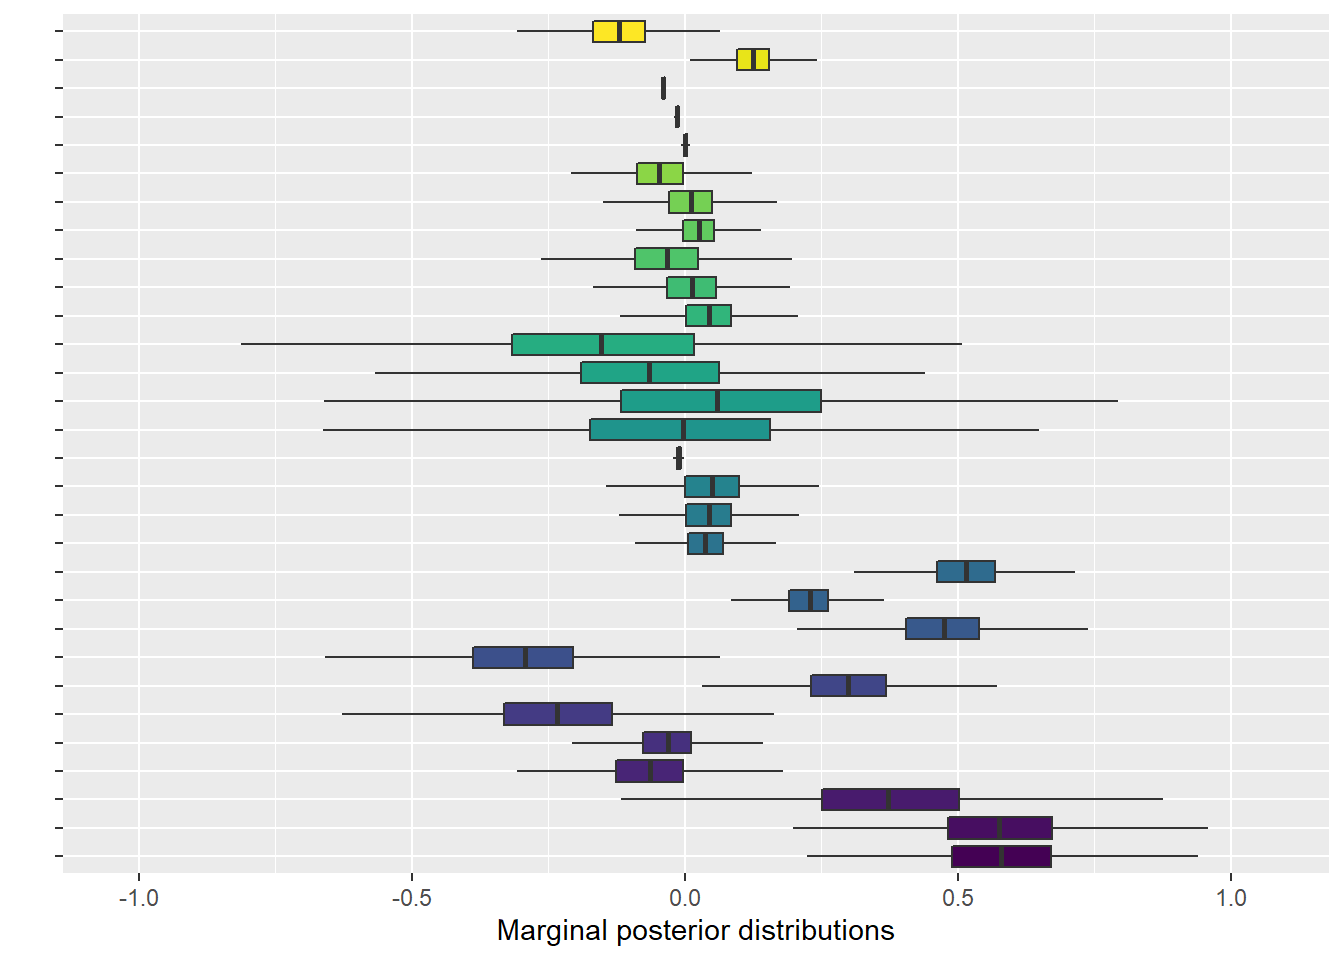
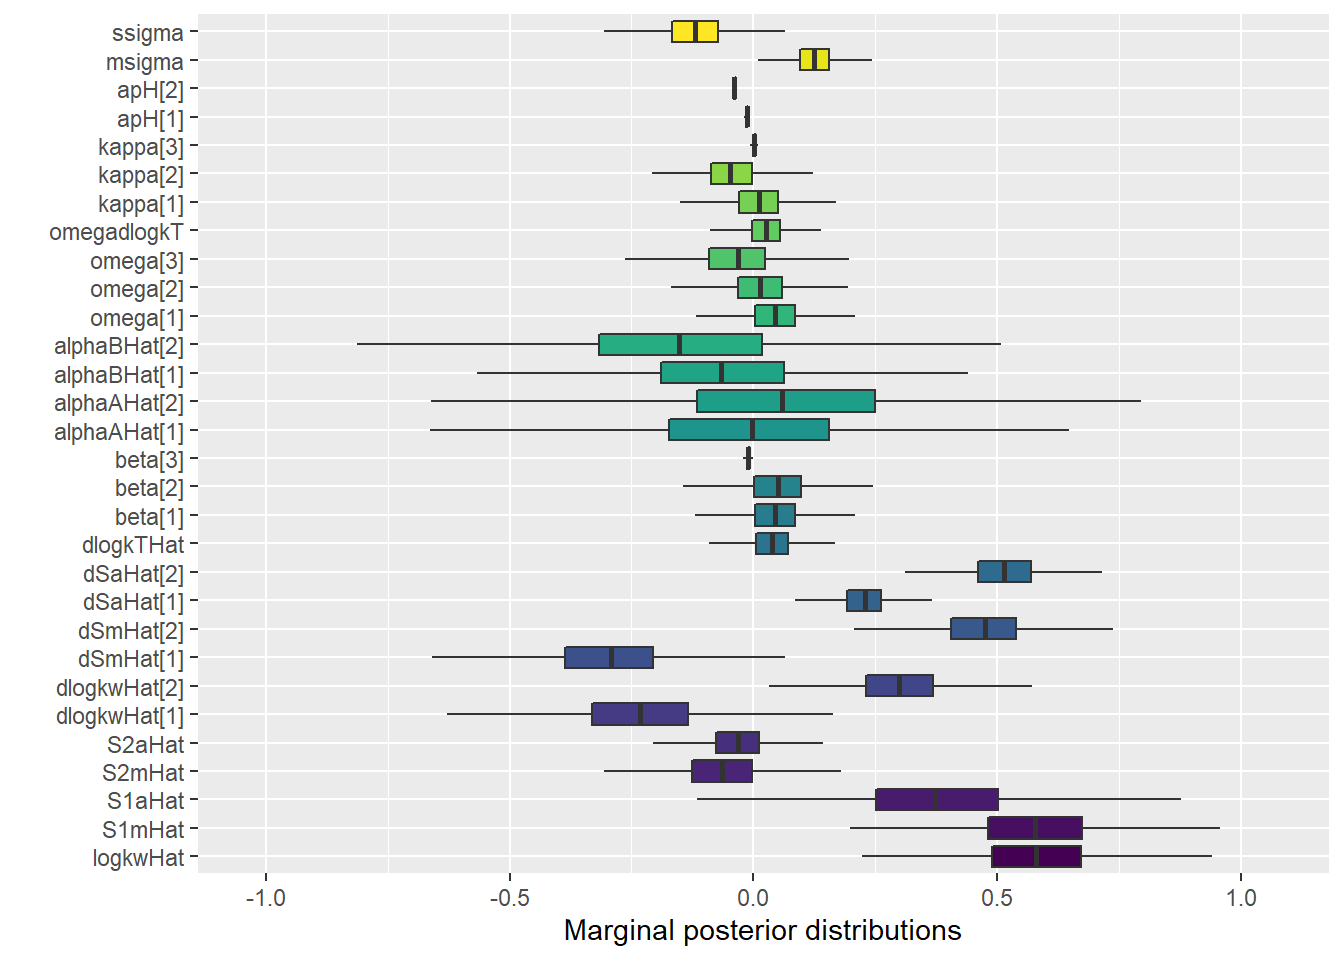
minor chart fixes

diff --git a/docs/Model_2_c.html b/docs/Model_2_c.html
@@ -20,69 +20,6 @@ ul.task-list li input[type="checkbox"] {
   margin: 0 0.8em 0.2em -1.6em;
   vertical-align: middle;
 }
-pre > code.sourceCode { white-space: pre; position: relative; }
-pre > code.sourceCode > span { display: inline-block; line-height: 1.25; }
-pre > code.sourceCode > span:empty { height: 1.2em; }
-.sourceCode { overflow: visible; }
-code.sourceCode > span { color: inherit; text-decoration: inherit; }
-div.sourceCode { margin: 1em 0; }
-pre.sourceCode { margin: 0; }
-@media screen {
-div.sourceCode { overflow: auto; }
-}
-@media print {
-pre > code.sourceCode { white-space: pre-wrap; }
-pre > code.sourceCode > span { text-indent: -5em; padding-left: 5em; }
-}
-pre.numberSource code
-  { counter-reset: source-line 0; }
-pre.numberSource code > span
-  { position: relative; left: -4em; counter-increment: source-line; }
-pre.numberSource code > span > a:first-child::before
-  { content: counter(source-line);
-    position: relative; left: -1em; text-align: right; vertical-align: baseline;
-    border: none; display: inline-block;
-    -webkit-touch-callout: none; -webkit-user-select: none;
-    -khtml-user-select: none; -moz-user-select: none;
-    -ms-user-select: none; user-select: none;
-    padding: 0 4px; width: 4em;
-    color: #aaaaaa;
-  }
-pre.numberSource { margin-left: 3em; border-left: 1px solid #aaaaaa;  padding-left: 4px; }
-div.sourceCode
-  {   }
-@media screen {
-pre > code.sourceCode > span > a:first-child::before { text-decoration: underline; }
-}
-code span.al { color: #ff0000; font-weight: bold; } /* Alert */
-code span.an { color: #60a0b0; font-weight: bold; font-style: italic; } /* Annotation */
-code span.at { color: #7d9029; } /* Attribute */
-code span.bn { color: #40a070; } /* BaseN */
-code span.bu { color: #008000; } /* BuiltIn */
-code span.cf { color: #007020; font-weight: bold; } /* ControlFlow */
-code span.ch { color: #4070a0; } /* Char */
-code span.cn { color: #880000; } /* Constant */
-code span.co { color: #60a0b0; font-style: italic; } /* Comment */
-code span.cv { color: #60a0b0; font-weight: bold; font-style: italic; } /* CommentVar */
-code span.do { color: #ba2121; font-style: italic; } /* Documentation */
-code span.dt { color: #902000; } /* DataType */
-code span.dv { color: #40a070; } /* DecVal */
-code span.er { color: #ff0000; font-weight: bold; } /* Error */
-code span.ex { } /* Extension */
-code span.fl { color: #40a070; } /* Float */
-code span.fu { color: #06287e; } /* Function */
-code span.im { color: #008000; font-weight: bold; } /* Import */
-code span.in { color: #60a0b0; font-weight: bold; font-style: italic; } /* Information */
-code span.kw { color: #007020; font-weight: bold; } /* Keyword */
-code span.op { color: #666666; } /* Operator */
-code span.ot { color: #007020; } /* Other */
-code span.pp { color: #bc7a00; } /* Preprocessor */
-code span.sc { color: #4070a0; } /* SpecialChar */
-code span.ss { color: #bb6688; } /* SpecialString */
-code span.st { color: #4070a0; } /* String */
-code span.va { color: #19177c; } /* Variable */
-code span.vs { color: #4070a0; } /* VerbatimString */
-code span.wa { color: #60a0b0; font-weight: bold; font-style: italic; } /* Warning */
 </style>
 
 
@@ -261,31 +198,16 @@ code span.wa { color: #60a0b0; font-weight: bold; font-style: italic; } /* Warni
 </div>
 </div>
 <div class="cell">
-<div class="sourceCode cell-code" id="cb1"><pre class="sourceCode r code-with-copy"><code class="sourceCode r"><span id="cb1-1"><a href="#cb1-1" aria-hidden="true" tabindex="-1"></a>variable <span class="ot">&lt;-</span> <span class="fu">rep</span>(parameters_names,<span class="at">each=</span><span class="dv">4000</span>)</span>
-<span id="cb1-2"><a href="#cb1-2" aria-hidden="true" tabindex="-1"></a>value <span class="ot">&lt;-</span> pp_Com[<span class="dv">120001</span><span class="sc">:</span><span class="dv">240000</span>,<span class="dv">2</span>]<span class="sc">-</span>pp_Com[<span class="dv">1</span><span class="sc">:</span><span class="dv">120000</span>,<span class="dv">2</span>]</span>
-<span id="cb1-3"><a href="#cb1-3" aria-hidden="true" tabindex="-1"></a>pp_Com_dif <span class="ot">&lt;-</span> <span class="fu">as.data.frame</span>(<span class="fu">cbind</span>(variable,value))</span>
-<span id="cb1-4"><a href="#cb1-4" aria-hidden="true" tabindex="-1"></a>pp_Com_dif[,<span class="dv">1</span>] <span class="ot">&lt;-</span> <span class="fu">ordered</span>(pp_Com_dif[,<span class="dv">1</span>],parameters_names) </span>
-<span id="cb1-5"><a href="#cb1-5" aria-hidden="true" tabindex="-1"></a>pp_Com_dif[,<span class="dv">2</span>] <span class="ot">&lt;-</span> <span class="fu">as.numeric</span>(pp_Com_dif[,<span class="dv">2</span>])</span></code><button title="Copy to Clipboard" class="code-copy-button"><i class="bi"></i></button></pre></div>
+
 </div>
 <section id="distribution-of-differences-in-parameters-between-columns" class="level2" data-number="7.1">
 <h2 data-number="7.1" class="anchored" data-anchor-id="distribution-of-differences-in-parameters-between-columns"><span class="header-section-number">7.1</span> Distribution of differences in parameters between columns</h2>
 <div class="cell">
-<div class="sourceCode cell-code" id="cb2"><pre class="sourceCode r code-with-copy"><code class="sourceCode r"><span id="cb2-1"><a href="#cb2-1" aria-hidden="true" tabindex="-1"></a><span class="fu">ggplot</span>(<span class="at">data =</span> pp_Com_dif, <span class="fu">aes</span>(<span class="at">x=</span>variable, <span class="at">y=</span>value)) <span class="sc">+</span> <span class="fu">geom_boxplot</span>(<span class="fu">aes</span>(<span class="at">fill=</span>variable),<span class="at">outlier.shape=</span><span class="cn">NA</span>)<span class="sc">+</span> <span class="fu">coord_flip</span>()<span class="sc">+</span></span>
-<span id="cb2-2"><a href="#cb2-2" aria-hidden="true" tabindex="-1"></a>  <span class="fu">theme</span>(<span class="at">legend.position =</span> <span class="st">"none"</span>)<span class="sc">+</span> <span class="fu">scale_x_discrete</span>(<span class="at">labels=</span><span class="fu">lab_labeller</span>())<span class="sc">+</span></span>
-<span id="cb2-3"><a href="#cb2-3" aria-hidden="true" tabindex="-1"></a>  <span class="fu">labs</span>(<span class="at">y=</span><span class="st">"Marginal posterior distributions"</span>,<span class="at">x=</span><span class="st">""</span>)</span></code><button title="Copy to Clipboard" class="code-copy-button"><i class="bi"></i></button></pre></div>
 <div class="cell-output-display">
 <p><img src="Model_2_c_files/figure-html/unnamed-chunk-5-1.png" class="img-fluid" width="672"></p>
 </div>
 </div>
 <div class="cell">
-<div class="sourceCode cell-code" id="cb3"><pre class="sourceCode r code-with-copy"><code class="sourceCode r"><span id="cb3-1"><a href="#cb3-1" aria-hidden="true" tabindex="-1"></a><span class="fu">ggplot</span>(<span class="at">data =</span> pp_Com_dif, <span class="fu">aes</span>(<span class="at">x=</span>variable, <span class="at">y=</span>value)) <span class="sc">+</span> <span class="fu">geom_boxplot</span>(<span class="at">outlier.shape=</span><span class="cn">NA</span>)<span class="sc">+</span> <span class="fu">coord_flip</span>()<span class="sc">+</span></span>
-<span id="cb3-2"><a href="#cb3-2" aria-hidden="true" tabindex="-1"></a>  <span class="co">#theme(legend.position = "none")+ </span></span>
-<span id="cb3-3"><a href="#cb3-3" aria-hidden="true" tabindex="-1"></a>  <span class="fu">scale_x_discrete</span>(<span class="at">labels=</span><span class="fu">lab_labeller</span>())<span class="sc">+</span></span>
-<span id="cb3-4"><a href="#cb3-4" aria-hidden="true" tabindex="-1"></a>  <span class="fu">labs</span>(<span class="at">y=</span><span class="st">"Marginal posterior distributions"</span>,<span class="at">x=</span><span class="st">""</span>)<span class="sc">+</span><span class="fu">facet_wrap</span>(<span class="sc">~</span>variable, <span class="at">labeller=</span>lab_labeller,<span class="at">scales =</span> <span class="st">"free"</span>, <span class="at">nrow =</span> <span class="dv">15</span>)</span></code><button title="Copy to Clipboard" class="code-copy-button"><i class="bi"></i></button></pre></div>
-<div class="cell-output cell-output-stderr">
-<pre><code>Warning: The labeller API has been updated. Labellers taking `variable` and
-`value` arguments are now deprecated. See labellers documentation.</code></pre>
-</div>
 <div class="cell-output-display">
 <p><img src="Model_2_c_files/figure-html/unnamed-chunk-6-1.png" class="img-fluid" width="672"></p>
 </div>
